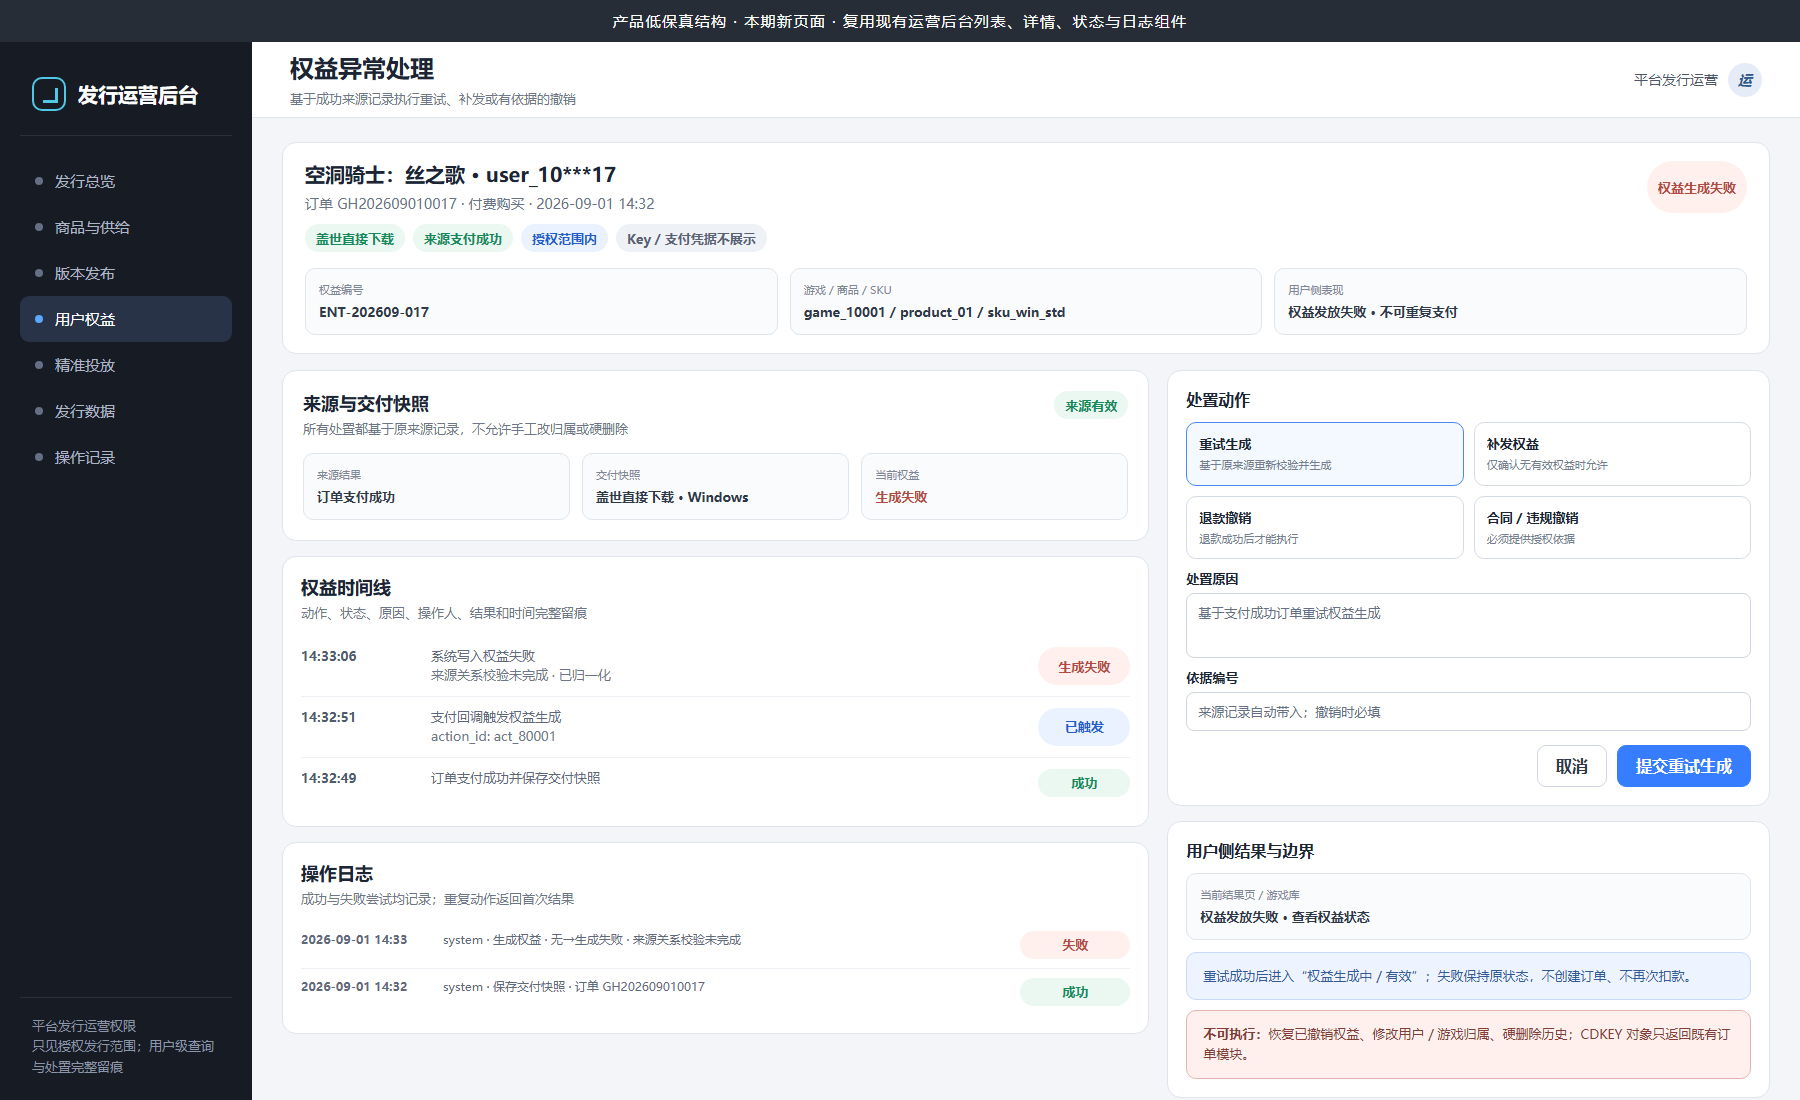
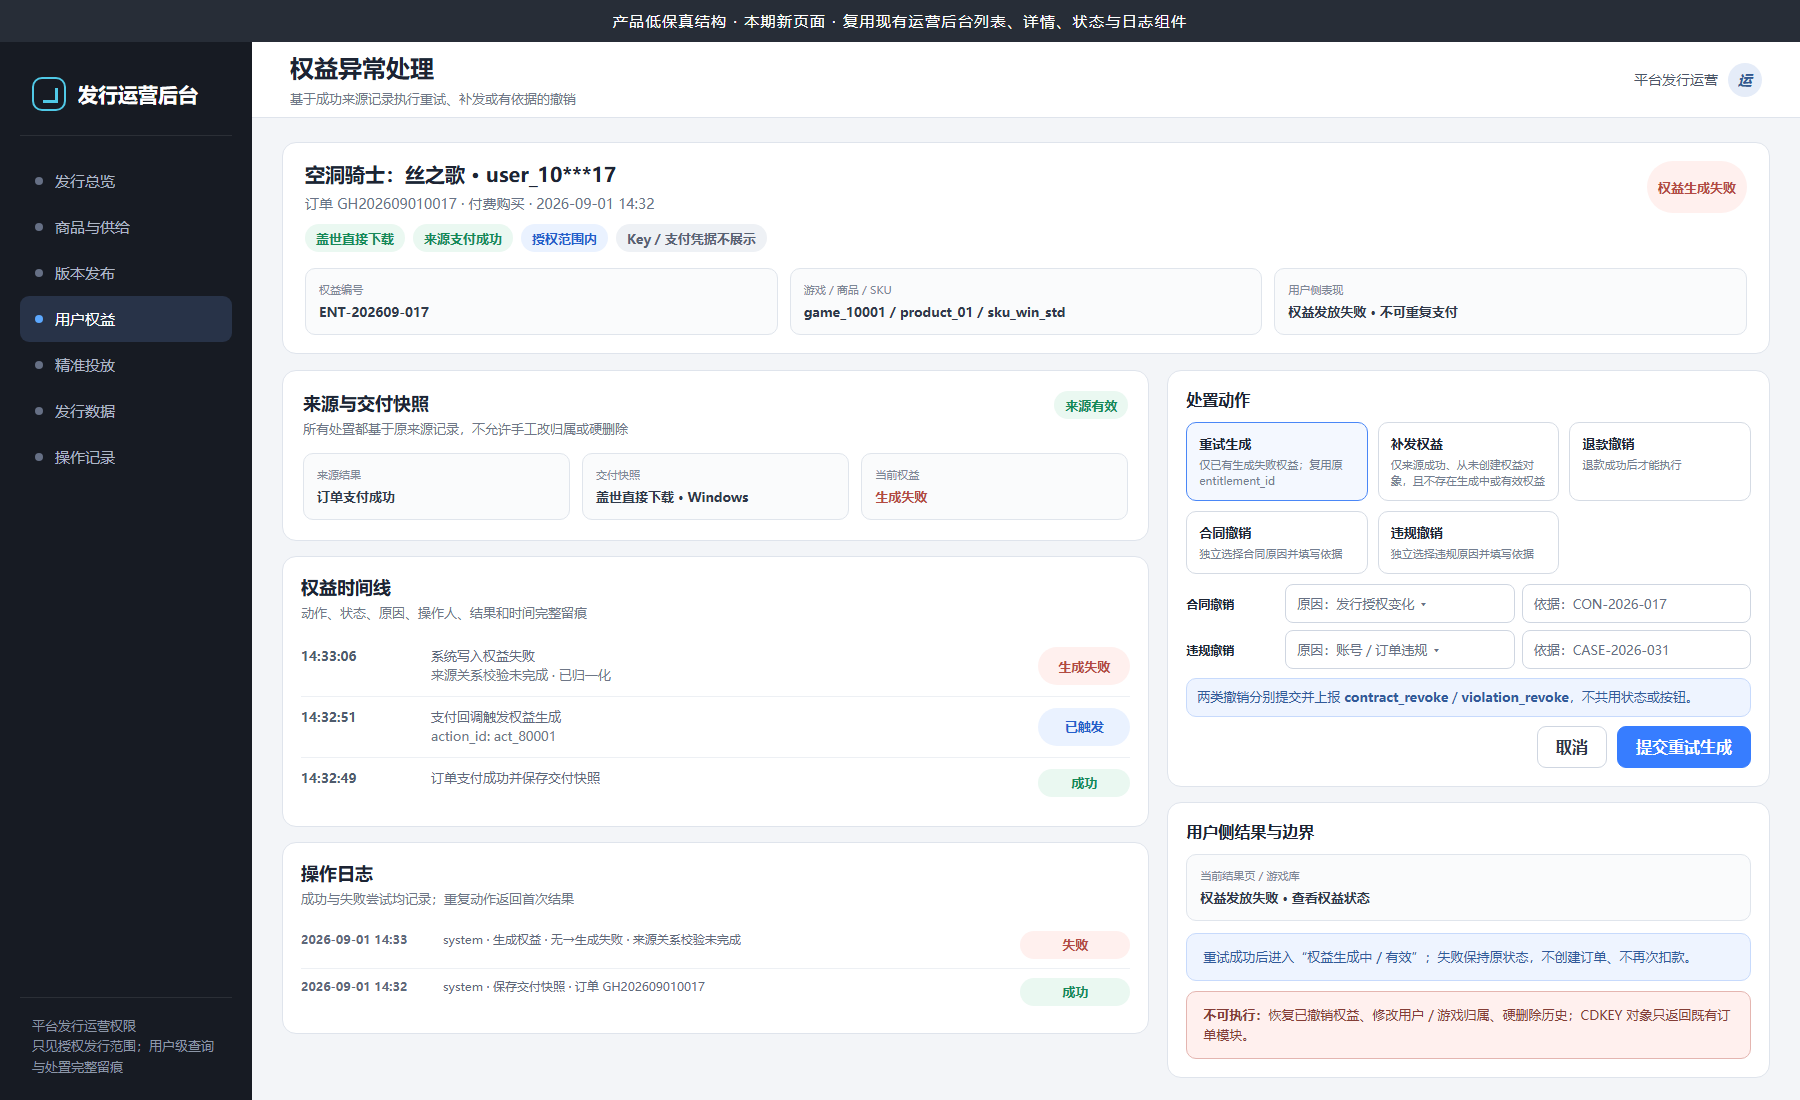
docs: clarify entitlement recovery actions

Changed region(s): [[0.6533, 0.4018, 0.9956, 0.7418], [0.6533, 0.7418, 0.9644, 0.9891]]

diff --git a/public/prd/genuine-game-distribution-phase1/05-entitlement-library/entitlement-screens.html b/public/prd/genuine-game-distribution-phase1/05-entitlement-library/entitlement-screens.html
@@ -107,7 +107,7 @@ function opsHandle(){
     <div class="admin-grid" style="margin-top:16px"><div class="admin-stack"><section class="acard admin-section"><div class="admin-section-title"><div><h2>来源与交付快照</h2><p>所有处置都基于原来源记录，不允许手工改归属或硬删除</p></div>${badge('来源有效','green')}</div><div class="info-grid"><div class="info-item"><div class="k">来源结果</div><div class="v">订单支付成功</div></div><div class="info-item"><div class="k">交付快照</div><div class="v">盖世直接下载 · Windows</div></div><div class="info-item"><div class="k">当前权益</div><div class="v" style="color:#b34b43">生成失败</div></div></div></section>
       <section class="acard timeline"><div class="admin-section-title"><div><h2>权益时间线</h2><p>动作、状态、原因、操作人、结果和时间完整留痕</p></div></div><div class="timeline-item"><span class="time">14:33:06</span><span class="desc">系统写入权益失败<br><span class="muted">来源关系校验未完成 · 已归一化</span></span>${badge('生成失败','red')}</div><div class="timeline-item"><span class="time">14:32:51</span><span class="desc">支付回调触发权益生成<br><span class="muted">action_id: act_80001</span></span>${badge('已触发','blue')}</div><div class="timeline-item"><span class="time">14:32:49</span><span class="desc">订单支付成功并保存交付快照</span>${badge('成功','green')}</div></section>
       <section class="acard audit"><div class="admin-section-title"><div><h2>操作日志</h2><p>成功与失败尝试均记录；重复动作返回首次结果</p></div></div><div class="audit-row"><b>2026-09-01 14:33</b><span>system · 生成权益 · 无→生成失败 · 来源关系校验未完成</span>${badge('失败','red')}</div><div class="audit-row"><b>2026-09-01 14:32</b><span>system · 保存交付快照 · 订单 GH202609010017</span>${badge('成功','green')}</div></section></div>
-      <aside class="admin-stack"><section class="acard handle-card"><h3>处置动作</h3><div class="handle-row"><div class="handle-choice selected"><b>重试生成</b><span>基于原来源重新校验并生成</span></div><div class="handle-choice"><b>补发权益</b><span>仅确认无有效权益时允许</span></div><div class="handle-choice"><b>退款撤销</b><span>退款成功后才能执行</span></div><div class="handle-choice"><b>合同 / 违规撤销</b><span>必须提供授权依据</span></div></div><div class="field"><label>处置原因</label><div class="field-box area">基于支付成功订单重试权益生成</div></div><div class="field"><label>依据编号</label><div class="field-box">来源记录自动带入；撤销时必填</div></div><div style="display:flex;gap:10px;justify-content:flex-end;margin-top:14px"><button class="abtn">取消</button><button class="abtn primary">提交重试生成</button></div></section>
+      <aside class="admin-stack"><section class="acard handle-card"><h3>处置动作</h3><div class="handle-row" style="grid-template-columns:repeat(3,1fr)"><div class="handle-choice selected"><b>重试生成</b><span>仅已有生成失败权益；复用原 entitlement_id</span></div><div class="handle-choice"><b>补发权益</b><span>仅来源成功、从未创建权益对象，且不存在生成中或有效权益</span></div><div class="handle-choice"><b>退款撤销</b><span>退款成功后才能执行</span></div><div class="handle-choice"><b>合同撤销</b><span>独立选择合同原因并填写依据</span></div><div class="handle-choice"><b>违规撤销</b><span>独立选择违规原因并填写依据</span></div></div><div style="display:grid;grid-template-columns:92px 1fr 1fr;gap:7px;margin-top:9px;align-items:center;font-size:12px"><b>合同撤销</b><div class="field-box">原因：发行授权变化 ▾</div><div class="field-box">依据：CON-2026-017</div><b>违规撤销</b><div class="field-box">原因：账号／订单违规 ▾</div><div class="field-box">依据：CASE-2026-031</div></div><div class="permission-note" style="margin-top:9px;padding:8px 10px">两类撤销分别提交并上报 <b>contract_revoke</b> / <b>violation_revoke</b>，不共用状态或按钮。</div><div style="display:flex;gap:10px;justify-content:flex-end;margin-top:9px"><button class="abtn">取消</button><button class="abtn primary">提交重试生成</button></div></section>
       <section class="acard handle-card"><h3>用户侧结果与边界</h3><div class="info-item"><div class="k">当前结果页 / 游戏库</div><div class="v">权益发放失败 · 查看权益状态</div></div><div class="permission-note" style="margin-top:12px">重试成功后进入“权益生成中 / 有效”；失败保持原状态，不创建订单、不再次扣款。</div><div class="permission-note red" style="margin-top:10px"><b>不可执行：</b>恢复已撤销权益、修改用户 / 游戏归属、硬删除历史；CDKEY 对象只返回既有订单模块。</div></section></aside></div>`});
 }
 
